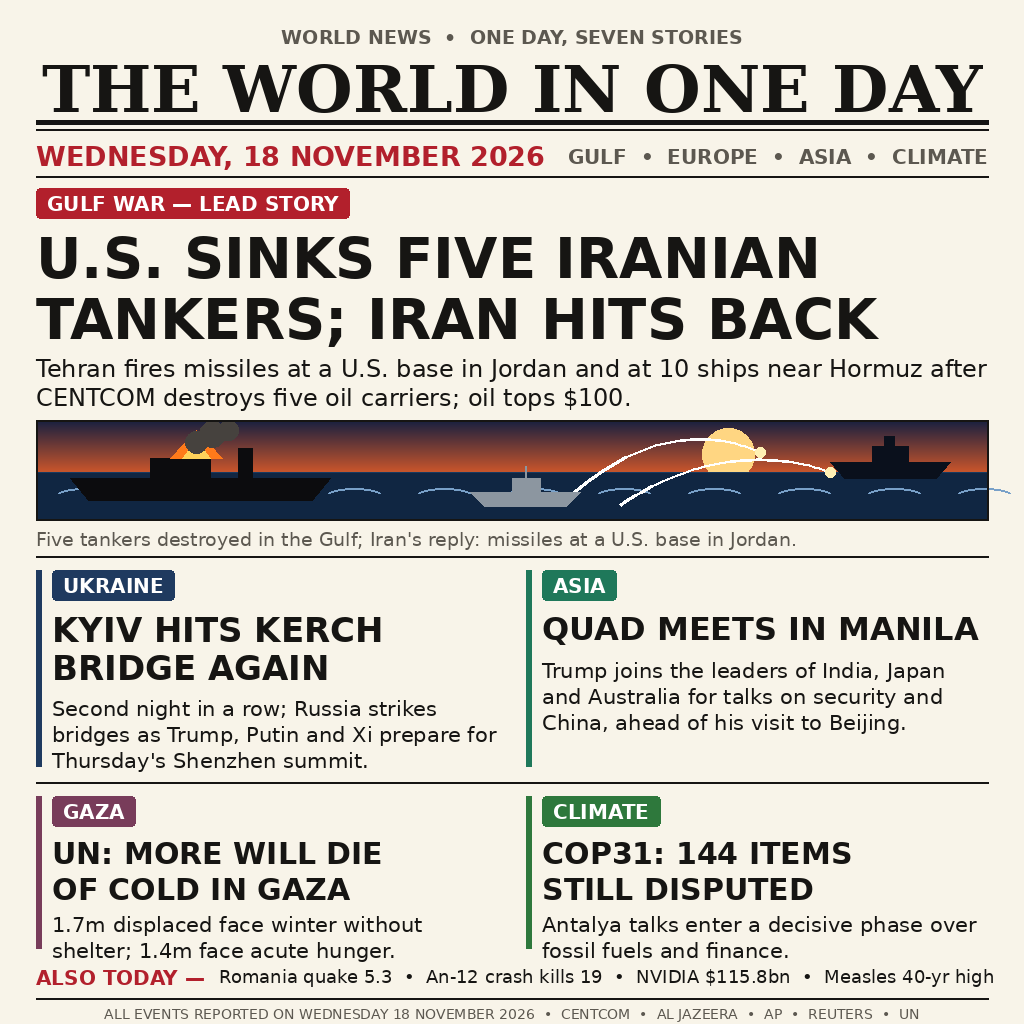
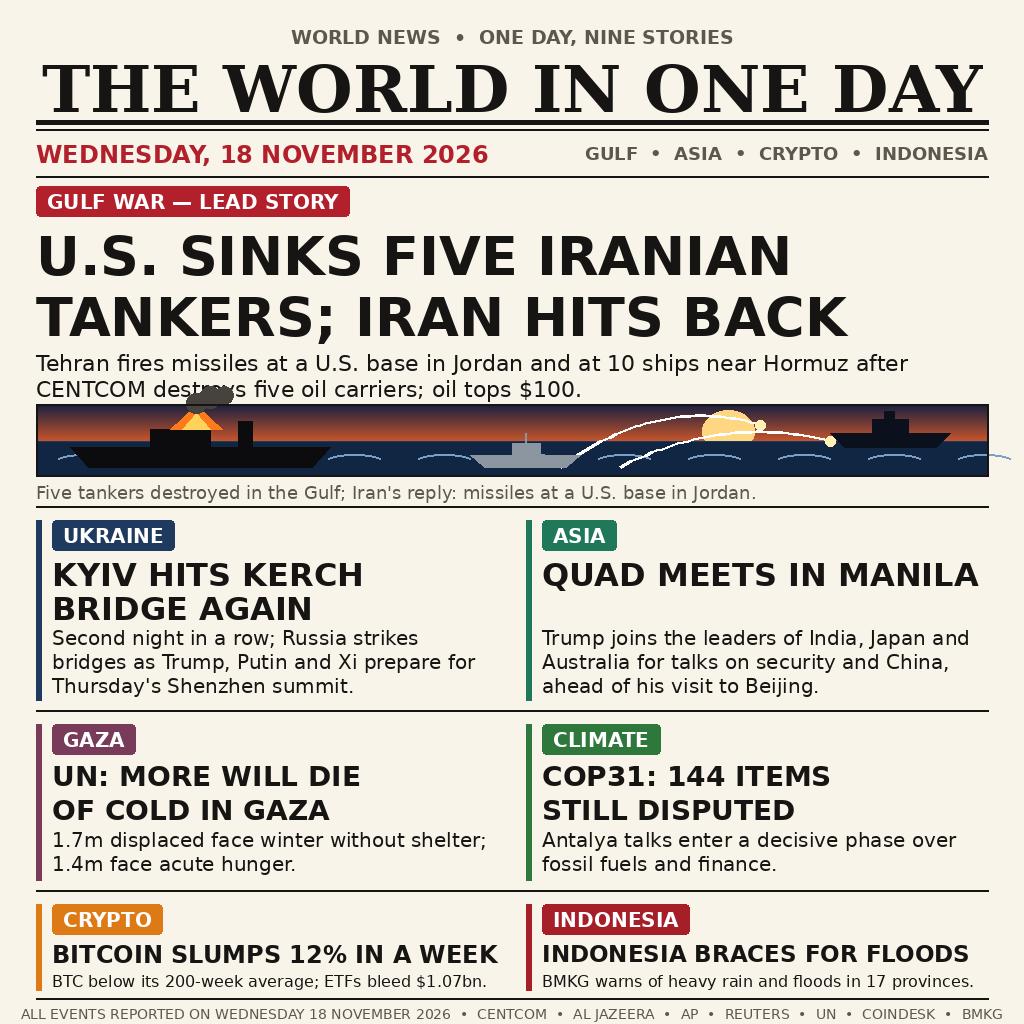
Add crypto + Indonesia stories: 9 stories, fix dateline overlap

Changed region(s): [[0.0312, 0.125, 0.9688, 1.0], [0.2812, 0.0312, 0.7188, 0.0625], [0.5625, 0.125, 0.9688, 0.1562]]

diff --git a/main.ts b/main.ts
@@ -2,16 +2,16 @@
 // A newspaper front page summing up Wednesday 18 November 2026.
 //
 // The image (entry.png, 1024x1024, drawn offline with PIL + DejaVu fonts)
-// is the entry: a masthead, the date, and seven verified stories of the day:
+// is the entry: a masthead, the date, and nine verified stories of the day:
 //   1. GULF WAR — U.S. sinks five Iranian tankers; Iran hits back (lead)
 //   2. UKRAINE — Kyiv hits the Kerch Bridge a second night
 //   3. ASIA — Quad leaders meet in Manila
 //   4. GAZA — UN warns more will die of cold
 //   5. CLIMATE — COP31: 144 items still disputed
-//   6-7. BRIEFS — Romania quake 5.3, An-12 crash kills 19,
-//      NVIDIA $115.8bn revenue, U.S. measles at a 40-year high
+//   6. CRYPTO — Bitcoin slumps 12% in a week, below its 200-week average
+//   7. INDONESIA — BMKG warns of heavy rain and floods in 17 provinces
 // Every fact was checked against reporting of 18 Nov 2026 (CENTCOM,
-// Al Jazeera, AP, Reuters, UN) before the image was drawn.
+// Al Jazeera, AP, Reuters, UN, CoinDesk, BMKG) before the image was drawn.
 //
 // This program is the whole entrypoint: it copies entry.png to
 // /output/entry.png (MAKEFUN_OUTPUT_DIR outside the grader) and verifies

diff --git a/README.md b/README.md
@@ -4,7 +4,7 @@
 [![rank](https://make.fun/badge/news-image-20261118/Shanumameyra/news-image-20261118/rank.svg)](https://make.fun/bounty/news-image-20261118/leaderboard?utm_source=github&utm_medium=readme&utm_campaign=news-image-20261118)
 [![reward](https://make.fun/badge/news-image-20261118/Shanumameyra/news-image-20261118/reward.svg)](https://make.fun/bounty/news-image-20261118?utm_source=github&utm_medium=readme&utm_campaign=news-image-20261118)
 
-A newspaper front page summing up the world's news of **Wednesday 18 November 2026** — one image, seven stories. Entry for the make.fun **news-image-20261118** bounty ($250, 50 paid places).
+A newspaper front page summing up the world's news of **Wednesday 18 November 2026** — one image, nine stories. Entry for the make.fun **news-image-20261118** bounty ($250, 50 paid places).
 
 ![The World in One Day — 18 November 2026](entry.png)
 
@@ -15,9 +15,10 @@ A newspaper front page summing up the world's news of **Wednesday 18 November 20
 3. **ASIA** — Quad leaders meet in Manila: Trump joins the leaders of India, Japan and Australia for talks on security and China, ahead of his visit to Beijing.
 4. **GAZA** — UN warns more will die of cold: 1.7 million displaced face winter without shelter; 1.4 million face acute hunger.
 5. **CLIMATE** — COP31 in Antalya enters a decisive phase with 144 items still disputed.
-6. **ALSO TODAY** — Romania quake 5.3; Russian An-12 crash kills 19; NVIDIA revenue $115.8bn; U.S. measles at a 40-year high.
+6. **CRYPTO** — Bitcoin slumps 12% in a week, falling below its 200-week average near $65,000; U.S. spot Bitcoin ETFs bled $1.07bn in a week and the Fear & Greed Index sits at 12 — extreme fear.
+7. **INDONESIA** — BMKG warns of heavy rain, lightning and strong winds — and floods — in 17 provinces from 17 to 23 November 2026.
 
-Every fact was checked against reporting of 18 November 2026 (CENTCOM, Al Jazeera, AP, Reuters, UN).
+Every fact was checked against reporting of 18 November 2026 (CENTCOM, Al Jazeera, AP, Reuters, UN, CoinDesk, BMKG).
 
 ## How it is made
 
